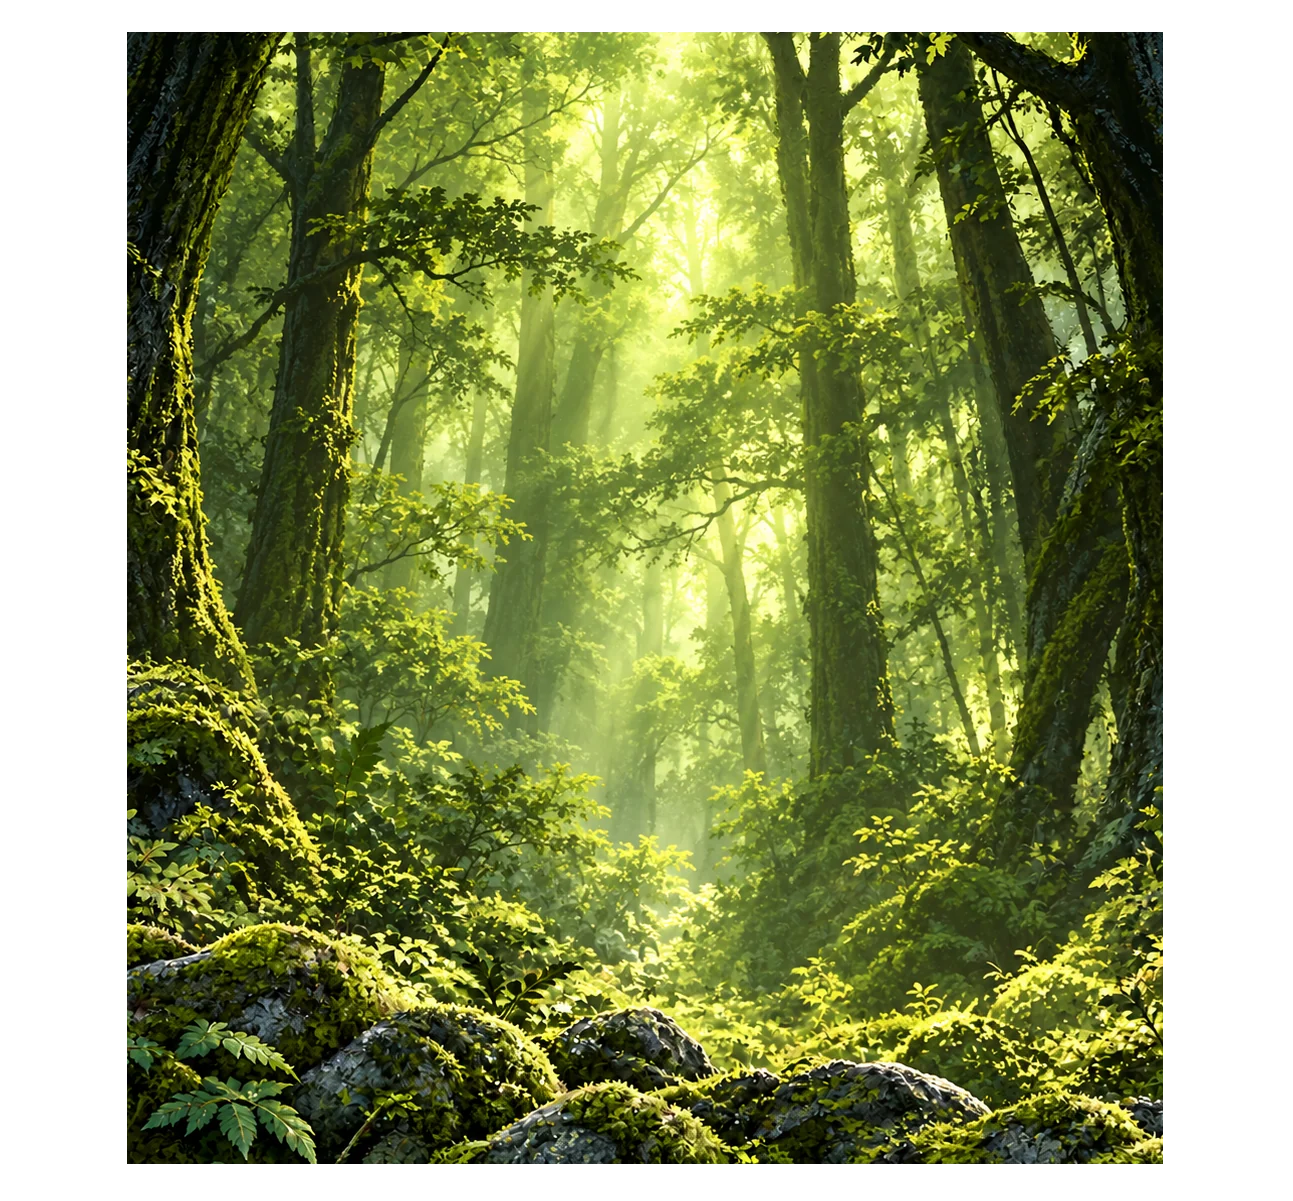
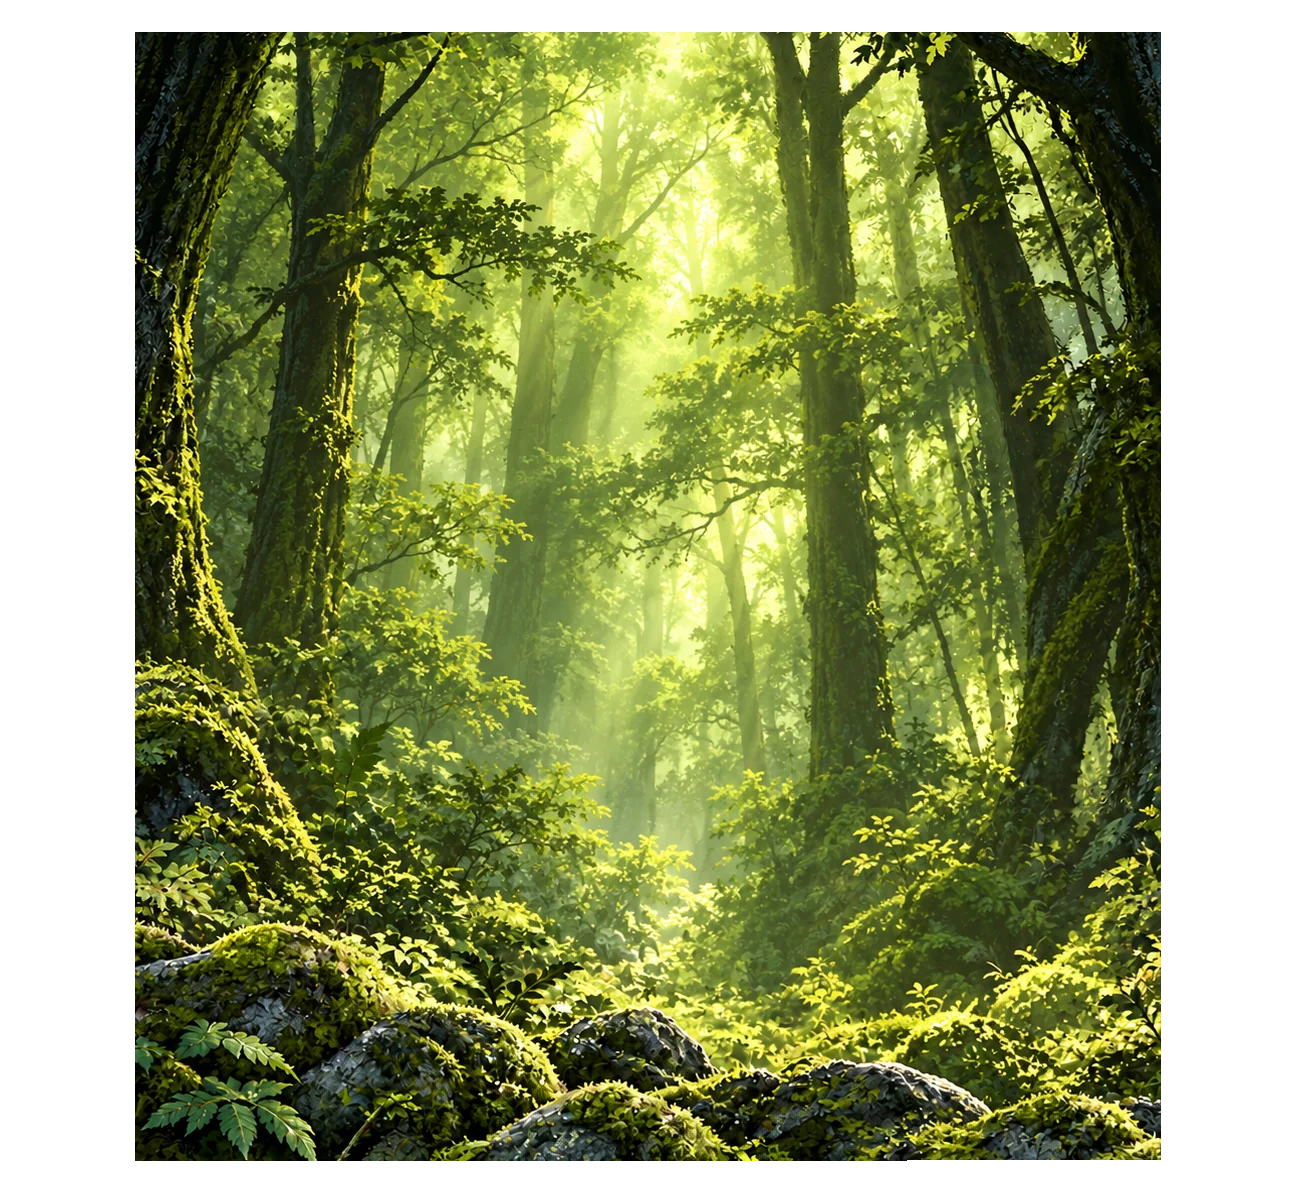
Campaign preview: art fills the view, the text's half transparent backing slides in over it (clipped), sparks around the chosen thumbnail
Claude-Session: https://claude.ai/code/session_01L8aGjgA4exAss1WkdLM4Fb

Changed region(s): [[0.0928, 0.0308, 0.1237, 0.9858], [0.7115, 0.955, 0.8971, 0.9858]]

diff --git a/apps/app/src/styles.css b/apps/app/src/styles.css
@@ -857,20 +857,28 @@ textarea.ed-input { resize: vertical; white-space: pre-wrap; }
   background: linear-gradient(90deg, transparent, #5a1d12 12%, #6e2516 50%, #5a1d12 88%, transparent); }
 .lo-banner span { overflow: hidden; text-overflow: ellipsis; }
 .lo-show { position: absolute; left: 50%; top: calc(135 * var(--u)); transform: translateX(-50%); box-sizing: border-box; width: calc(1106 * var(--u));
-  max-width: calc(100vw - 32px); height: calc(615 * var(--u)); display: flex; gap: calc(6 * var(--u)); padding: calc(14 * var(--u));
+  max-width: calc(100vw - 32px); height: calc(615 * var(--u));
   background: rgba(16, 13, 10, 0.92); border: 2px solid #6b5536; }
-.lo-text { flex: 0 0 calc(440 * var(--u)); box-sizing: border-box; display: flex; flex-direction: column; padding: calc(24 * var(--u)) calc(28 * var(--u));
-  background: #050404; border: 2px solid #4a4038; overflow: hidden; }
+/* the view inside the frame: the art fills it, the text's backing slides in over the art and never shows outside it */
+.lo-view { position: absolute; inset: calc(14 * var(--u)); overflow: hidden; background: #0b0907; }
+.lo-text { position: absolute; left: 0; top: 0; bottom: 0; z-index: 1; width: calc(440 * var(--u)); max-width: 60%; box-sizing: border-box;
+  display: flex; flex-direction: column; padding: calc(24 * var(--u)) calc(28 * var(--u)); isolation: isolate; }
+/* the backing on its own layer: half transparent (the skin's panel picture too), the art shows through it */
+.lo-text::before { content: ""; position: absolute; inset: 0; z-index: -1; box-sizing: border-box; pointer-events: none;
+  background: #050404; border: 2px solid #4a4038; opacity: 0.72; }
 .lo-text h3 { margin: 0; text-align: center; font-family: "JiME Title", Georgia, serif; font-weight: normal; font-size: calc(40 * var(--u)); color: #f3e2b8; }
 .lo-rule { height: 2px; margin: calc(16 * var(--u)) calc(30 * var(--u)); background: linear-gradient(90deg, transparent, #c9a35a, transparent); }
 .lo-desc { flex: 1; overflow-y: auto; font-size: max(12px, calc(22 * var(--u))); line-height: 1.45; color: #e8dcc0; scrollbar-width: thin; }
-.lo-art { flex: 1; min-width: 0; background: #0b0907; overflow: hidden; }
+.lo-art { position: absolute; inset: 0; overflow: hidden; }
 .lo-art img { width: 100%; height: 100%; object-fit: cover; display: block; }
 .lo-shelf { position: absolute; left: 50%; top: calc(772 * var(--u)); transform: translateX(-50%); display: flex; align-items: center; gap: calc(40 * var(--u)); }
 .lo-thumbs { display: flex; gap: calc(62 * var(--u)); }
-.lo-thumb { width: calc(300 * var(--u)); height: calc(176 * var(--u)); padding: calc(8 * var(--u)); box-sizing: border-box; cursor: pointer; overflow: hidden;
+.lo-thumb { width: calc(300 * var(--u)); height: calc(176 * var(--u)); padding: calc(8 * var(--u)); box-sizing: border-box; cursor: pointer; position: relative;
   background: #120f0c; border: 2px solid #4c3c28; color: #f0dcae; font: inherit; font-size: calc(22 * var(--u)); }
 .lo-thumb img { width: 100%; height: 100%; object-fit: cover; display: block; }
+.lo-thumb b { display: block; overflow: hidden; max-height: 100%; }
+/* EdgeSparks' canvas: placed and sized by the component around its parent */
+.edge-sparks { position: absolute; pointer-events: none; z-index: 2; }
 .lo-thumb.on { border-color: #e2b766; box-shadow: 0 0 calc(14 * var(--u)) rgba(226, 183, 102, 0.7); }
 @media (hover: hover) { .lo-thumb:not(.on):hover { border-color: #8a7445; } }
 .lo-arrow { width: calc(60 * var(--u)); height: calc(120 * var(--u)); border: none; padding: 0; cursor: pointer; background: #d8d4cc;
@@ -887,7 +895,7 @@ textarea.ed-input { resize: vertical; white-space: pre-wrap; }
 /* the skin's pictures for them (theme atlas regions banner, frame.*, arrow, button.back / button.next) */
 .skinned .lo-banner { background: none; border-style: solid; border-color: transparent; border-image: var(--sk-banner) var(--sk-banner-slice) / var(--sk-banner-w); }
 .skinned .lo-show { background: none; border-color: transparent; border-image: var(--sk-frame-art) var(--sk-frame-art-slice) / var(--sk-frame-art-w); }
-.skinned .lo-text { border-color: transparent; border-image: var(--sk-panel-text) var(--sk-panel-text-slice) / var(--sk-panel-text-w); }
+.skinned .lo-text::before { border-color: transparent; border-image: var(--sk-panel-text) var(--sk-panel-text-slice) / var(--sk-panel-text-w); }
 .skinned .lo-thumb { border-color: transparent; border-image: var(--sk-frame-thumb) var(--sk-frame-thumb-slice) / var(--sk-frame-thumb-w); }
 .skinned .lo-thumb.on { box-shadow: none; border-image-source: var(--sk-frame-thumb-on); }
 .skinned .lo-arrow { clip-path: none; background: var(--sk-arrow) center / contain no-repeat; }

diff --git a/apps/app/src/screens/menu/EdgeSparks.tsx b/apps/app/src/screens/menu/EdgeSparks.tsx
@@ -1,0 +1,77 @@
+// Sparks flying off the edges of the element it is put in (like the original's Sprite_Highlight_Interior particles
+// around the chosen campaign): a canvas a margin bigger than its parent, golden embers born on the parent's border,
+// drifting outwards and up, fading out. The parent needs position: relative and must not clip (overflow: visible).
+import { useEffect, useRef } from "react";
+
+type Spark = { x: number; y: number; vx: number; vy: number; life: number; age: number; size: number };
+
+export function EdgeSparks({ margin = 0.25, rate = 90, color = "255, 196, 110" }: {
+  /** how far the sparks may fly, a share of the parent's height */
+  margin?: number;
+  /** sparks born per second (for a 300 px wide parent; scales with the perimeter) */
+  rate?: number;
+  /** the sparks' color, "r, g, b" */
+  color?: string;
+}) {
+  const ref = useRef<HTMLCanvasElement>(null);
+  useEffect(() => {
+    const cv = ref.current;
+    const box = cv?.parentElement;
+    if (!cv || !box) return;
+    const ctx = cv.getContext("2d");
+    if (!ctx) return;
+    const sparks: Spark[] = [];
+    let w = 0, h = 0, m = 0, dpr = 1, raf = 0, last = performance.now(), due = 0;
+    const fit = () => {
+      w = box.clientWidth; h = box.clientHeight; m = Math.round(h * margin);
+      dpr = Math.min(2, window.devicePixelRatio || 1);
+      cv.style.left = cv.style.top = `${-m}px`;
+      cv.style.width = `${w + 2 * m}px`; cv.style.height = `${h + 2 * m}px`;
+      cv.width = Math.round((w + 2 * m) * dpr); cv.height = Math.round((h + 2 * m) * dpr);
+    };
+    fit();
+    const ro = new ResizeObserver(fit);
+    ro.observe(box);
+    const spawn = () => {
+      // a point on the border, the push outwards from that side
+      const per = 2 * (w + h);
+      let p = Math.random() * per, x: number, y: number, nx: number, ny: number;
+      if (p < w) { x = p; y = 0; nx = 0; ny = -1; }
+      else if ((p -= w) < h) { x = w; y = p; nx = 1; ny = 0; }
+      else if ((p -= h) < w) { x = w - p; y = h; nx = 0; ny = 1; }
+      else { p -= w; x = 0; y = h - p; nx = -1; ny = 0; }
+      const speed = (0.08 + Math.random() * 0.22) * h; // px per second
+      sparks.push({ x: x + m, y: y + m, vx: nx * speed + (Math.random() - 0.5) * 0.15 * h, vy: ny * speed - 0.1 * h + (Math.random() - 0.5) * 0.1 * h,
+        life: 0.5 + Math.random() * 0.9, age: 0, size: (0.01 + Math.random() * 0.016) * h });
+    };
+    const frame = (now: number) => {
+      const dt = Math.min(0.05, (now - last) / 1000);
+      last = now;
+      due += dt * rate * (2 * (w + h)) / 900;
+      while (due >= 1) { spawn(); due -= 1; }
+      ctx.setTransform(dpr, 0, 0, dpr, 0, 0);
+      ctx.clearRect(0, 0, w + 2 * m, h + 2 * m);
+      ctx.globalCompositeOperation = "lighter";
+      for (let i = sparks.length - 1; i >= 0; i--) {
+        const s = sparks[i]!;
+        s.age += dt;
+        if (s.age >= s.life) { sparks.splice(i, 1); continue; }
+        s.vx *= 1 - dt * 1.2; s.vy = s.vy * (1 - dt * 1.2) - h * 0.15 * dt; // slows down, rises like an ember
+        s.x += s.vx * dt; s.y += s.vy * dt;
+        const k = 1 - s.age / s.life;
+        const a = Math.min(1, s.age * 10) * k; // a quick flash in, a slow fade out
+        const r = s.size * (0.6 + 0.4 * k);
+        const g = ctx.createRadialGradient(s.x, s.y, 0, s.x, s.y, r * 3);
+        g.addColorStop(0, `rgba(255, 245, 210, ${a})`);
+        g.addColorStop(0.3, `rgba(${color}, ${a * 0.8})`);
+        g.addColorStop(1, `rgba(${color}, 0)`);
+        ctx.fillStyle = g;
+        ctx.beginPath(); ctx.arc(s.x, s.y, r * 3, 0, Math.PI * 2); ctx.fill();
+      }
+      raf = requestAnimationFrame(frame);
+    };
+    raf = requestAnimationFrame(frame);
+    return () => { cancelAnimationFrame(raf); ro.disconnect(); };
+  }, [margin, rate, color]);
+  return <canvas ref={ref} className="edge-sparks" aria-hidden="true" />;
+}

diff --git a/apps/app/src/screens/menu/PlainTitle.tsx b/apps/app/src/screens/menu/PlainTitle.tsx
@@ -15,6 +15,7 @@ import { mapKind, setMapKind, type MapKind } from "./PlainCampaign.tsx";
 import { MenuBackground } from "./MenuBackground.tsx";
 import { DIFFICULTY_ART, DifficultyStep } from "./DifficultyStep.tsx";
 import { preloadLayeredArt } from "./LayeredArt.tsx";
+import { EdgeSparks } from "./EdgeSparks.tsx";
 import { refId, useMenuData, type MenuUi } from "./useMenuData.ts";
 import { useEffect } from "react";
 
@@ -121,9 +122,10 @@ export function PlainTitle({ onPlay, onTools, hasOriginal }: {
     body = (
       <div className="lo-campaign lo-campaigns">
         <h2 className="lo-banner"><span>{t("chooseCampaign")}</span></h2>
-        {/* CampaignDisplay, each campaign shown anew: its art fades in, the text's backing slides in from the left,
-            then the title and the description fade in */}
-        <div className="lo-show">
+        {/* CampaignDisplay, each campaign shown anew: its art fades in over the whole view, the text's half transparent
+            backing slides in over it from the left (clipped by the view), then the title and the description fade in */}
+        <div className="lo-show"><div className="lo-view">
+          <div className="lo-art" key={`a${campaign}`}>{(art?.Image || art?.ThumbnailImage) && <img src={ui.pic(art.Image ?? art.ThumbnailImage)} alt="" />}</div>
           <div className="lo-text" key={`t${campaign}`}>
             {cur ? <>
               <h3>{ui.raw(cur.TitleKey) || cur.m_Name}</h3>
@@ -131,8 +133,7 @@ export function PlainTitle({ onPlay, onTools, hasOriginal }: {
               <div className="lo-desc" dangerouslySetInnerHTML={{ __html: ui.say(cur.DescriptionKey) }} />
             </> : <p className="muted">{t("noCampaigns")}</p>}
           </div>
-          <div className="lo-art" key={`a${campaign}`}>{(art?.Image || art?.ThumbnailImage) && <img src={ui.pic(art.Image ?? art.ThumbnailImage)} alt="" />}</div>
-        </div>
+        </div></div>
         <div className="lo-shelf">
           <button className="lo-arrow left" aria-label="<" disabled={sh === 0} onClick={() => setShelf(sh - 1)} />
           <div className="lo-thumbs">
@@ -143,6 +144,7 @@ export function PlainTitle({ onPlay, onTools, hasOriginal }: {
                 <button key={c._id} className={`lo-thumb${campaign === c._id ? " on" : ""}`} title={ui.raw(c.TitleKey) || c.m_Name}
                   onClick={() => { setCampaign(c._id); setHeroes([]); }}>
                   {pic ? <img src={ui.pic(pic)} alt="" /> : <b>{ui.raw(c.TitleKey) || c.m_Name}</b>}
+                  {campaign === c._id && <EdgeSparks />}
                 </button>
               );
             })}
